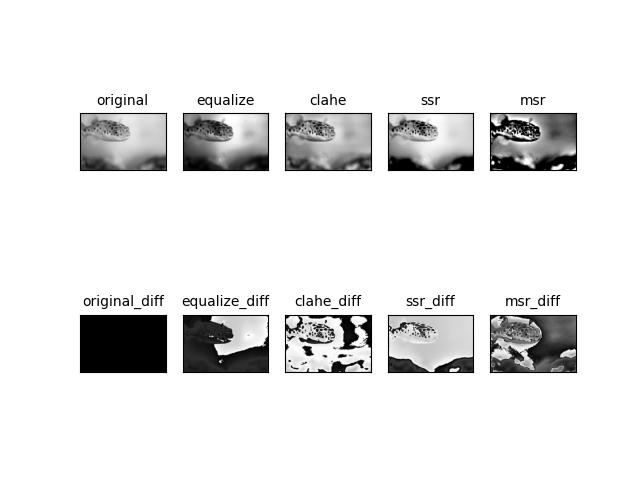
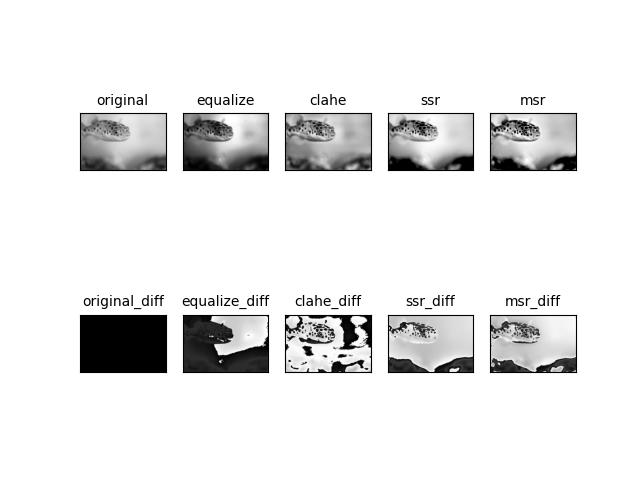
Fixed readme, comments. Removed unnecessary codes.

Changed region(s): [[0.75, 0.2188, 0.9062, 0.375], [0.75, 0.6562, 0.9062, 0.7812], [0.625, 0.6562, 0.6562, 0.6875]]

diff --git a/main.py b/main.py
@@ -11,7 +11,6 @@ def load_grayimg(file_path):
     if len(img[0,0,:]) == 3:
         print("Convert color to grayscale.")
         grayimg = cv2.cvtColor(img, cv2.COLOR_RGB2GRAY)
-        cv2.imwrite("butterfly_gray.jpg", grayimg)
     else:
         print("Unexpected number of channels in the image, terminate the process.")
         sys.exit(1)
@@ -48,9 +47,9 @@ if __name__ == "__main__":
     clahe = cv2.createCLAHE(clipLimit=2.0, tileGridSize=(8, 8))
     claheimg = clahe.apply(grayimg)
 
-    # 3.retinex : https://github.com/aravindskrishnan/Retinex-Image-Enhancement
-    variance_list = [15, 80, 30]
-    variance = 300
+    # 3.retinex : https://github.com/aravindskrishnan/Retinex-Image-Enhancement, https://santhalakshminarayana.github.io/blog/retinex-image-enhancement
+    variance_list = [15, 80, 250]
+    variance = 250
     grayimg3ch = np.stack((grayimg,) * 3, -1)
     img_ssr = retinex.SSR(grayimg3ch, variance)
     img_msr = retinex.MSR(grayimg3ch, variance_list)

diff --git a/retinex.py b/retinex.py
@@ -66,21 +66,3 @@ def SSR(img, variance):
                                * 255
     img_retinex = np.uint8(img_retinex)        
     return img_retinex
-
-
-# variance_list=[15, 80, 30]
-# variance=300
-    
-# img = cv2.imread('image.jpg')
-# img_msr=MSR(img,variance_list)
-# img_ssr=SSR(img, variance)
-
-# cv2.imshow('Original', img)
-# cv2.imshow('MSR', img_msr)
-# cv2.imshow('SSR', img_ssr)
-# cv2.imwrite('SSR.jpg', img_ssr)
-# cv2.imwrite('MSR.jpg',img_msr)
-
-
-# cv2.waitKey(0)
-# cv2.destroyAllWindows()

diff --git a/README.md b/README.md
@@ -6,11 +6,11 @@ It takes a color or grayscale image file as input and processes the brightness a
 The processes used are as follows For details, please refer to the respective links.
 - [equalizeHist](http://labs.eecs.tottori-u.ac.jp/sd/Member/oyamada/OpenCV/html/py_tutorials/py_imgproc/py_histograms/py_histogram_equalization/py_histogram_equalization.html)
 - [CLAHE](http://labs.eecs.tottori-u.ac.jp/sd/Member/oyamada/OpenCV/html/py_tutorials/py_imgproc/py_histograms/py_histogram_equalization/py_histogram_equalization.html)
-- [Retinex](https://github.com/aravindskrishnan/Retinex-Image-Enhancement)
+- [Retinex[1]](https://github.com/aravindskrishnan/Retinex-Image-Enhancement), [Retinex[2]](https://santhalakshminarayana.github.io/blog/retinex-image-enhancement)
 
 # Sample images of results
 - input  
-![input](data/sample.jpg "input")
+<img src="data/sample.jpg" width="320">
 
 - result  
 ![result](data/save/sample/sample_result.jpg "resulit")
